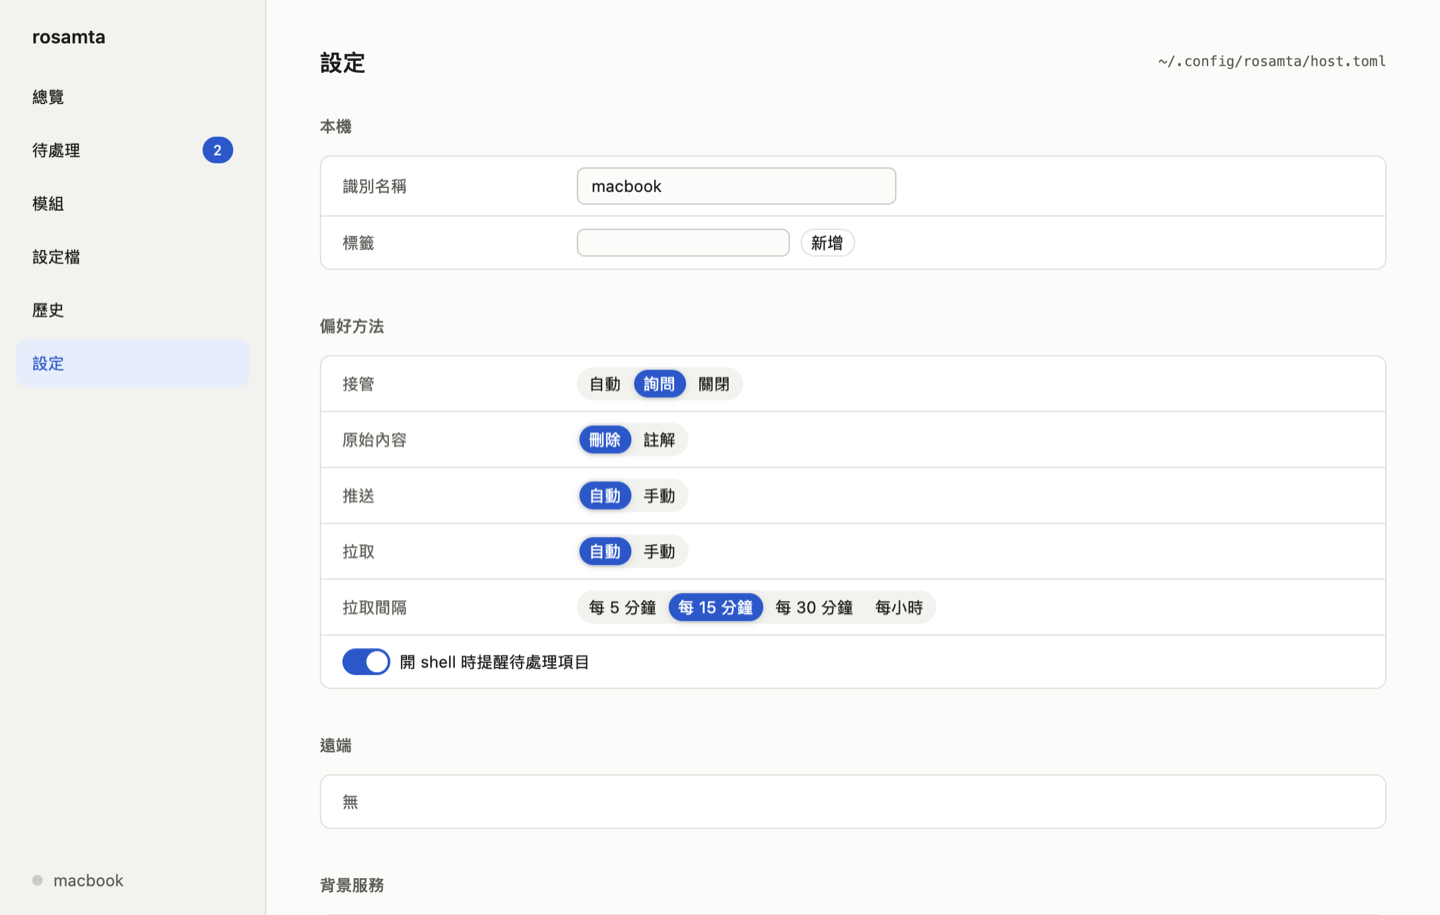
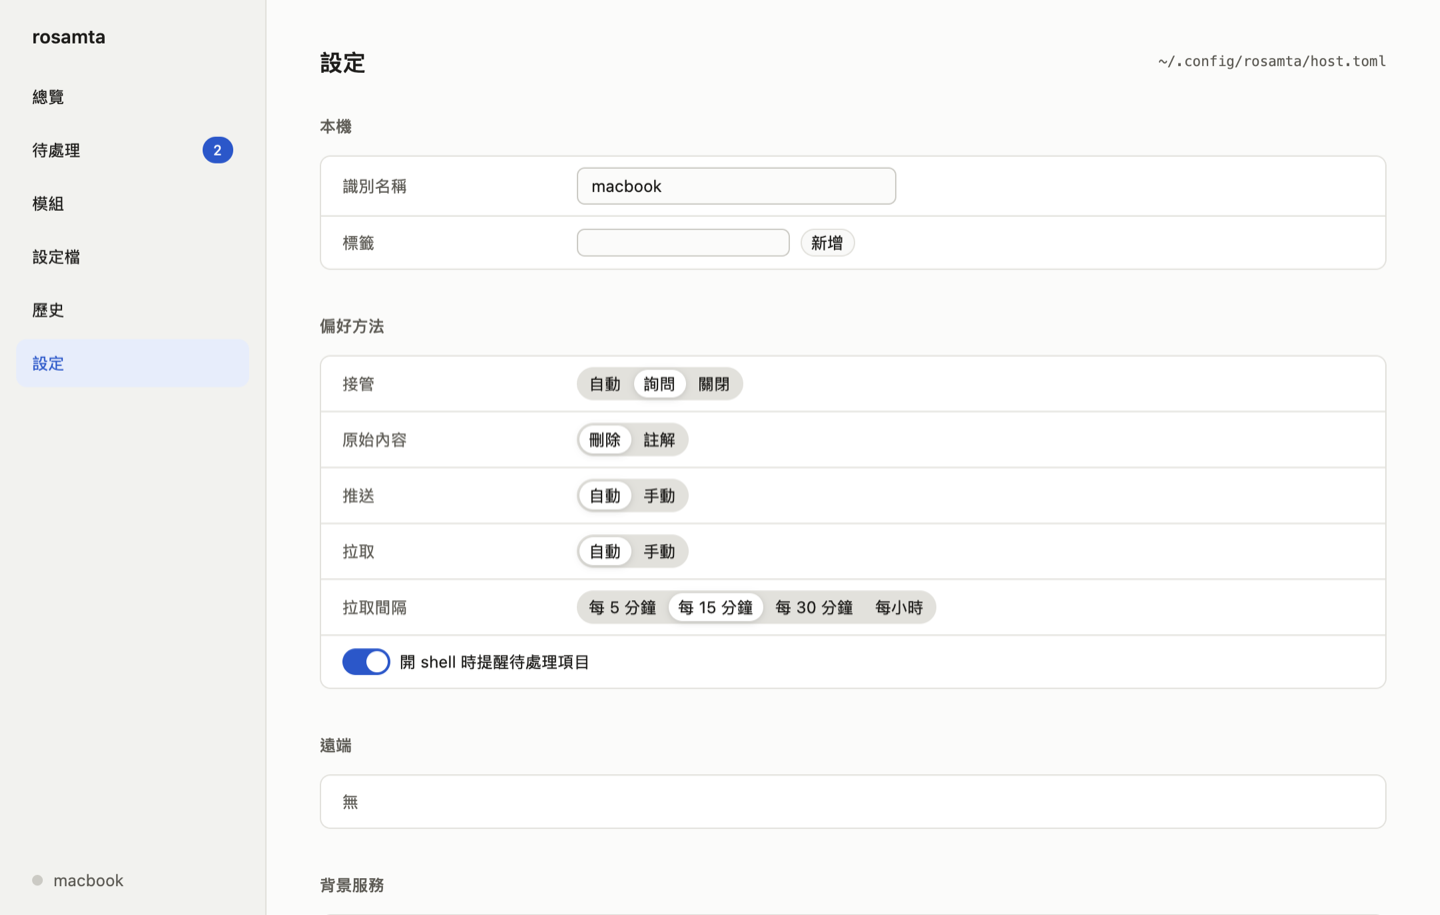
docs(readme): correct install, platform and term details
- Install from source until a release ships; say where the dmg keeps
  the CLI and that the macOS daemon needs rosamta.app
- The desktop app ships for Linux too; list glibc and shell minimums
- Use shell 設定檔 for rc files, as the glossary and usage docs do
- Refresh the screenshots with the new segmented controls

Changed region(s): [[0.4062, 0.459, 0.4375, 0.6426], [0.4688, 0.6426, 0.5312, 0.7038], [0.4375, 0.3978, 0.5, 0.459]]

diff --git a/README.md b/README.md
@@ -5,7 +5,7 @@
 <br>
 
 [![License](https://img.shields.io/github/license/accidental-two-timer-sam-woof/rosamta-agent?style=for-the-badge)](LICENSE)
-[![Version](https://img.shields.io/badge/Version-v0.1.0--rc.1-00BB00?style=for-the-badge)](https://github.com/accidental-two-timer-sam-woof/rosamta-agent/releases)
+[![Version](https://img.shields.io/badge/Version-v0.1.0--rc.1-00BB00?style=for-the-badge)](Cargo.toml)
 [![macOS](https://img.shields.io/badge/macOS-13%2B-black?style=for-the-badge&logo=apple&logoColor=white)](#系統需求)
 [![Linux](https://img.shields.io/badge/Linux-x86__64%20%7C%20aarch64-FCC624?style=for-the-badge&logo=linux&logoColor=black)](#系統需求)
 
@@ -13,15 +13,15 @@
 
 ## 總覽
 
-rosamta 是跨 shell、跨主機的 dotfile 管理工具。設定宣告在 git repo 裡，render 成各 shell 載入的腳本；安裝程式之後寫進 shell 設定檔的內容，也會被接管回 repo。命令列程式有 `rosamta` 與 `rsmt` 兩個名稱，用法完全相同；macOS 另有桌面 App。目前仍在開發中。
+rosamta 是跨 shell、跨主機的 dotfile 管理工具。設定宣告在 git repo 裡，render 成各 shell 載入的腳本；安裝程式之後寫進 shell 設定檔的內容，也可以接管回 repo。命令列程式有 `rosamta` 與 `rsmt` 兩個名稱，用法完全相同；另有桌面 App。目前仍在開發中。
 
 ### 🐚 **一份設定，四種 shell**
 - module 以 TOML 宣告環境變數、PATH 與 alias，同一份套用到 sh、bash、zsh 與 fish
 - 只適用於特定 shell 的程式碼放在 `[raw]`；可依主機、作業系統、架構或標籤限定套用範圍
 - 套用前先以新的設定啟動每個 shell，出現新的錯誤就取消，shell 繼續使用原本的設定
 
-### 📥 **接管設定檔**
-- 把 `~/.zshrc` 等設定檔原有的內容搬進 repo，搬完後設定檔只剩 rosamta 的區塊
+### 📥 **接管 shell 設定檔**
+- 把 `~/.zshrc` 等 shell 設定檔原有的內容搬進 repo，搬完後只剩 rosamta 的區塊
 - 安裝程式之後寫入的內容列入待處理清單，可接管到這台主機或所有主機，也可以忽略
 - 看起來像 API key 或 token 的內容不進 repo，只留在這台主機
 
@@ -31,21 +31,21 @@ rosamta 是跨 shell、跨主機的 dotfile 管理工具。設定宣告在 git r
 - 目標位置已有不同內容時不覆蓋，顯示差異讓你決定
 
 ### 🔄 **多主機同步**
-- 每次變更都是一個 commit，自動推送，並定時拉取其他主機的變更
+- 每次變更都是一個 commit，預設自動推送；背景服務定時拉取其他主機的變更
 - 推送前檢查 API key 與 token，發現時停止推送
 - 登入 GitHub 後可直接建立 private repo 作為遠端
 
 ### 🛰 **背景服務**
 - 登入後自動啟動：macOS 為登入項目，Linux 為 systemd 使用者服務
-- 出現待處理的內容時發出通知；macOS 上可以直接選擇接管、忽略或查看差異
+- 出現待處理的內容時發出通知，可以直接選擇接管、忽略或查看差異
 
-### 🖥 **桌面 App**（macOS）
+### 🖥 **桌面 App**
 - 總覽、待處理項目的差異、module 開關、設定檔狀態、提交紀錄與快照、本機設定
 - 跟隨系統的淺色與深色外觀
 
 ### ↩ **隨時退出**
-- 修改設定檔前先存快照，可還原單次接管，或全部還原成使用 rosamta 之前的內容
-- `rsmt eject` 把目前的設定寫回設定檔，移除 rosamta 後 shell 的行為不變
+- 修改 shell 設定檔前先存快照，可還原單次接管，或全部還原成使用 rosamta 之前的內容
+- `rsmt eject` 把目前的設定寫回 shell 設定檔，移除 rosamta 後 shell 的行為不變
 
 ## 示例圖
 
@@ -72,26 +72,27 @@ rosamta 是跨 shell、跨主機的 dotfile 管理工具。設定宣告在 git r
 
 ## 安裝
 
-從 [Releases](https://github.com/accidental-two-timer-sam-woof/rosamta-agent/releases) 下載：
+正式版發布前，請從原始碼安裝：
+
+```sh
+cargo install --locked --git https://github.com/accidental-two-timer-sam-woof/rosamta-agent rosamta      # 命令列程式
+cargo install --locked --git https://github.com/accidental-two-timer-sam-woof/rosamta-agent rosamta-gui  # 桌面 App
+```
+
+發布後可從 [Releases](https://github.com/accidental-two-timer-sam-woof/rosamta-agent/releases) 下載：
 
 | 平台 | 檔案 |
 |---|---|
-| macOS | `.dmg`，含桌面 App 與背景服務 |
-| Linux | `.deb`、`.rpm` 或 tarball，含命令列程式與背景服務 |
-
-也可以從原始碼安裝命令列程式：
-
-```sh
-cargo install --locked --git https://github.com/accidental-two-timer-sam-woof/rosamta-agent rosamta
-```
+| macOS | `.dmg`：桌面 App 與背景服務；命令列程式在 `rosamta.app/Contents/MacOS/rosamta` |
+| Linux | `.deb`、`.rpm` 或 tarball：命令列程式、桌面 App 與背景服務 |
 
 ## 系統需求
 
 | 項目 | 需求 |
 |------|------|
-| macOS | 13 以上，Apple 晶片或 Intel |
-| Linux | x86_64 或 aarch64；背景服務需要 systemd 使用者服務，否則自行執行 `rsmt daemon run` |
-| shell | sh、bash、zsh、fish |
+| macOS | 13 以上，Apple 晶片或 Intel；背景服務需要 rosamta.app |
+| Linux | x86_64 或 aarch64，發行的套件需要 glibc 2.28 以上；背景服務需要 systemd 使用者服務，否則自行執行 `rsmt daemon run` |
+| shell | sh、bash 3.2、zsh 5.8、fish 3.6 以上 |
 | git | 必要 |
 | keychain（選用） | Linux 為 Secret Service；沒有時 GitHub token 存成只有你能讀取的檔案 |
 
@@ -430,9 +431,10 @@ rsmt schema module > module.schema.json
 [![Rust](https://img.shields.io/badge/Rust-1.99-000000?style=for-the-badge&logo=rust&logoColor=white)](https://www.rust-lang.org)
 
 ### 需求
-- Rust：版本由 `rust-toolchain.toml` 決定，第一次執行 `cargo` 時自動下載
-- macOS：建置桌面 App 需要 Xcode 與 Metal 編譯器
-- Linux：建置桌面 App 需要的系統套件見 [CONTRIBUTING.md](CONTRIBUTING.md)
+- rustup：Rust 版本由 `rust-toolchain.toml` 決定，第一次執行 `cargo` 時自動下載
+- macOS：Xcode 與 Metal 編譯器
+- Linux：桌面 App 需要的系統套件見 [CONTRIBUTING.md](CONTRIBUTING.md)
+- 建置或測試整個 workspace 都會建置桌面 App
 - Docker 或 OrbStack：發行版測試需要
 
 ### 建置與執行
@@ -458,18 +460,18 @@ cargo test --workspace --locked
 rosamta-agent/
 ├── crates/
 │   ├── rosamta-core/             # 核心邏輯，命令列程式、App 與背景服務共用
-│   │   ├── locales/              # 使用者看到的文字（繁體中文、英文）
+│   │   ├── locales/              # 背景服務與 App 的文字（繁體中文、英文）
 │   │   └── src/
-│   │       ├── adopt/            # 接管設定檔、待處理清單、秘密偵測
+│   │       ├── adopt/            # 接管 shell 設定檔、待處理清單、秘密偵測
 │   │       ├── daemon/           # 背景服務、login shell 環境、通知
 │   │       ├── dotfiles/         # 設定檔部署、加密、衝突處理
 │   │       ├── github/           # GitHub 登入與 token 保存
 │   │       ├── sync/             # 拉取、推送與推送前檢查
 │   │       ├── render.rs         # 把 module render 成各 shell 的腳本
 │   │       ├── apply.rs          # 套用與 shell 啟動檢查
-│   │       ├── hooks.rs          # 設定檔中的 rosamta 區塊
+│   │       ├── hooks.rs          # shell 設定檔中的 rosamta 區塊
 │   │       ├── snapshot.rs       # 修改前的快照與還原
-│   │       └── validate.rs       # TOML 檢查與 JSON Schema
+│   │       └── validate.rs       # 檢查 repo 中的 TOML 檔
 │   ├── rosamta/                  # 命令列程式（rosamta / rsmt）
 │   └── rosamta-gui/              # 桌面 App（GPUI）
 │       └── src/pages/            # 總覽、待處理、模組、設定檔、歷史、設定
@@ -477,7 +479,7 @@ rosamta-agent/
 ├── packaging/                    # macOS App bundle、Homebrew、AUR
 ├── tests/
 │   ├── docker/                   # 各發行版的 shell 測試映像
-│   └── fixtures/installers/      # 安裝程式寫入設定檔前後的內容
+│   └── fixtures/installers/      # 安裝程式寫入 shell 設定檔前後的內容
 ├── docs/adr/                     # 架構決策紀錄
 ├── openspec/                     # 功能規格與變更提案
 ├── GLOSSARY.md                   # 用語定義
@@ -487,10 +489,10 @@ rosamta-agent/
 ## 貢獻
 歡迎 PR 與 Issue！
 
-送出前請確認
+送出前請確認：
 1. 依 [CONTRIBUTING.md](CONTRIBUTING.md) 在本機跑過格式、clippy、測試與 `cargo deny`
 2. 用語以 [GLOSSARY.md](GLOSSARY.md) 為準，設計不違反 [docs/adr](docs/adr) 的決策
-3. 影響架構或跨多次工作階段的變更，先在 `openspec/changes/` 以 [OpenSpec](https://github.com/Fission-AI/OpenSpec) 規劃
+3. 影響架構或規模較大的變更，先在 `openspec/changes/` 以 [OpenSpec](https://github.com/Fission-AI/OpenSpec) 規劃
 4. commit message 使用英文的 Conventional Commits
 
 ## 授權
